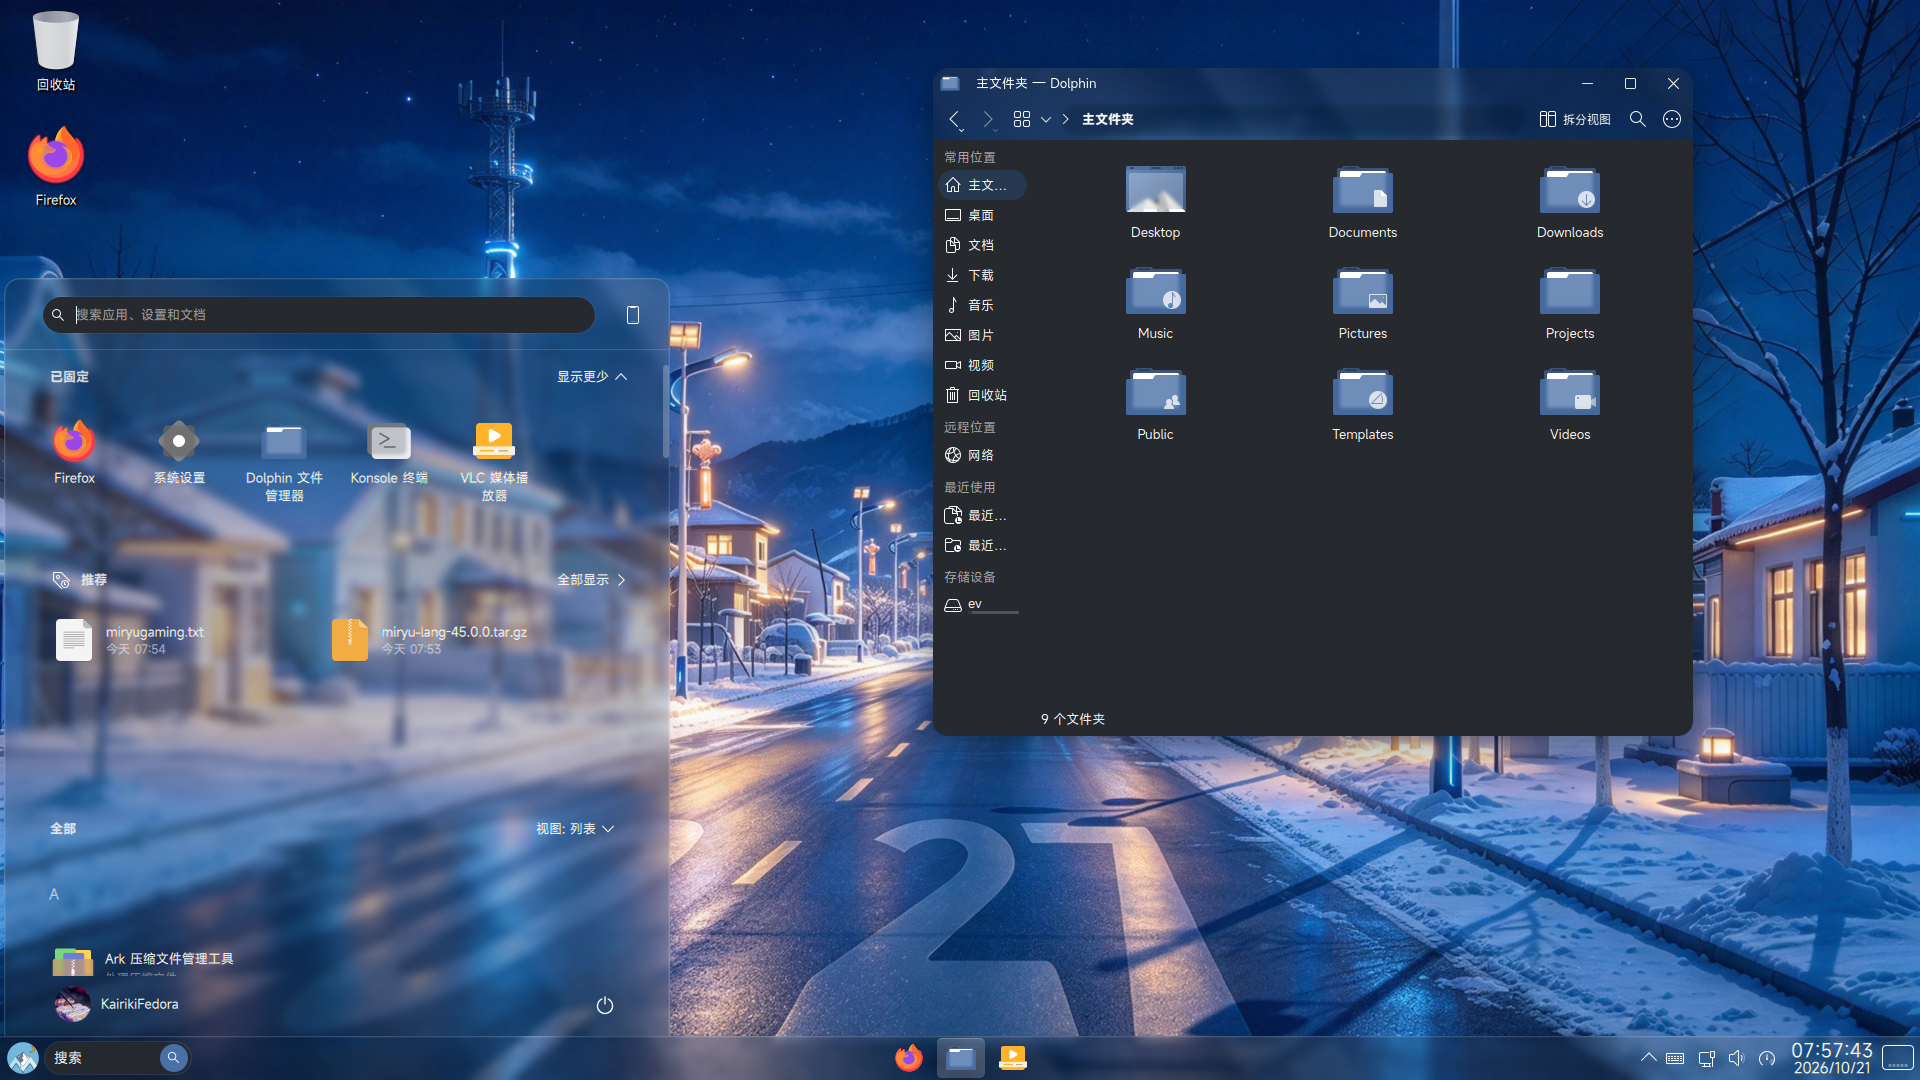
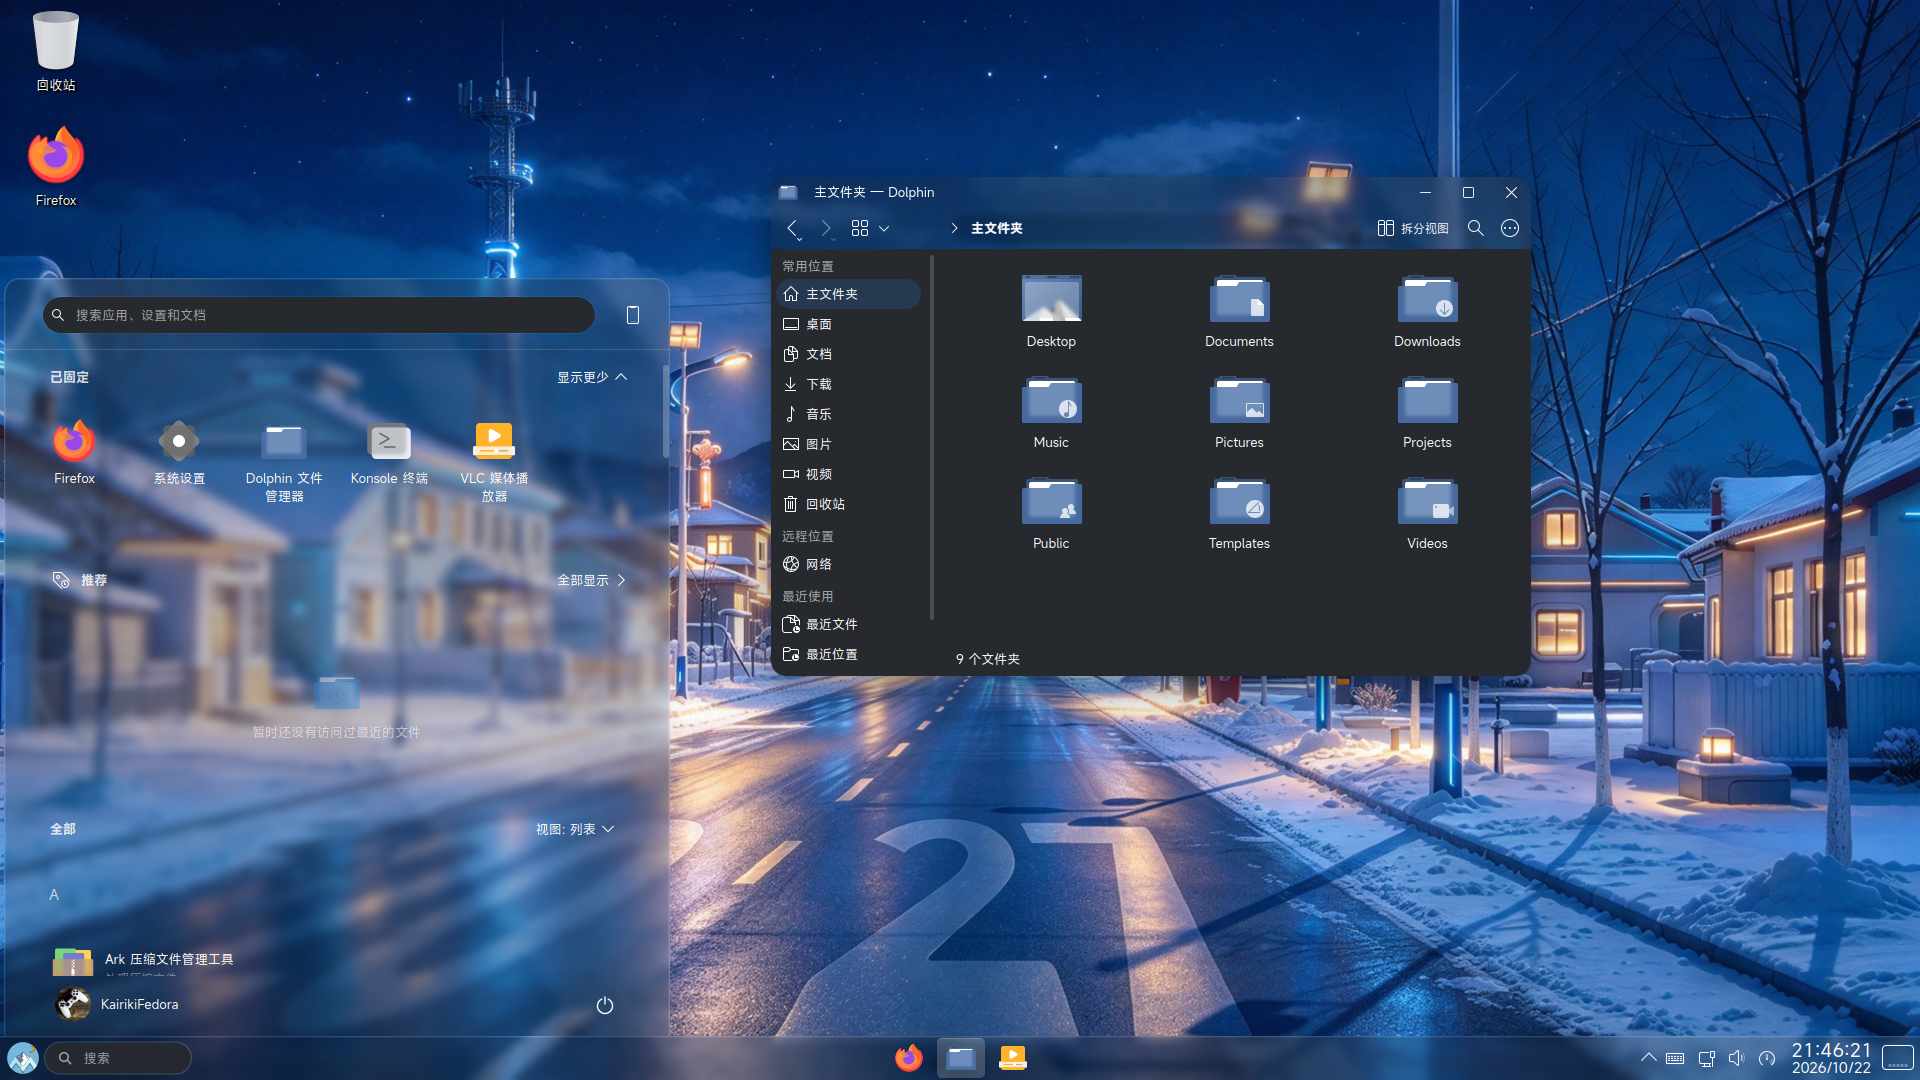
Update Search Widget

diff --git a/usr/share/plasma/look-and-feel/evernight-vista-classic-dark/contents/layouts/org.kde.plasma.desktop-layout.js b/usr/share/plasma/look-and-feel/evernight-vista-classic-dark/contents/layouts/org.kde.plasma.desktop-layout.js
@@ -47,7 +47,7 @@ kickoff.writeConfig("favorites", ["preferred://browser", "systemsettings.desktop
 
 
 //panel.addWidget("org.kde.plasma.showActivityManager")
-panel.addWidget("com.mcc45tr.filesearch")
+panel.addWidget("org.miryugaming.search")
 let taskBar = panel.addWidget("org.kde.plasma.icontasks.skyler")
 taskBar.writeConfig("launchers",["preferred://browser","preferred://filemanager","applications:vlc.desktop"])
 taskBar.writeConfig("hoverEffect",false)

diff --git a/usr/share/plasma/look-and-feel/evernight-vista-classic/contents/layouts/org.kde.plasma.desktop-layout.js b/usr/share/plasma/look-and-feel/evernight-vista-classic/contents/layouts/org.kde.plasma.desktop-layout.js
@@ -47,7 +47,7 @@ kickoff.writeConfig("favorites", ["preferred://browser", "systemsettings.desktop
 
 
 //panel.addWidget("org.kde.plasma.showActivityManager")
-panel.addWidget("com.mcc45tr.filesearch")
+panel.addWidget("org.miryugaming.search")
 let taskBar = panel.addWidget("org.kde.plasma.icontasks.skyler")
 taskBar.writeConfig("launchers",["preferred://browser","preferred://filemanager","applications:vlc.desktop"])
 taskBar.writeConfig("hoverEffect",false)

diff --git a/usr/share/plasma/look-and-feel/evernight-vista-dark/contents/layouts/org.kde.plasma.desktop-layout.js b/usr/share/plasma/look-and-feel/evernight-vista-dark/contents/layouts/org.kde.plasma.desktop-layout.js
@@ -48,7 +48,7 @@ kickoff.writeConfig("favorites", ["preferred://browser", "systemsettings.desktop
 
 
 //panel.addWidget("org.kde.plasma.showActivityManager")
-panel.addWidget("com.mcc45tr.filesearch")
+panel.addWidget("org.miryugaming.search")
 let taskBar = panel.addWidget("org.kde.plasma.icontasks.skyler")
 taskBar.writeConfig("launchers",["preferred://browser","preferred://filemanager","applications:vlc.desktop"])
 taskBar.writeConfig("hoverEffect",false)

diff --git a/usr/share/plasma/look-and-feel/evernight-vista/contents/layouts/org.kde.plasma.desktop-layout.js b/usr/share/plasma/look-and-feel/evernight-vista/contents/layouts/org.kde.plasma.desktop-layout.js
@@ -48,7 +48,7 @@ kickoff.writeConfig("favorites", ["preferred://browser", "systemsettings.desktop
 
 
 //panel.addWidget("org.kde.plasma.showActivityManager")
-panel.addWidget("com.mcc45tr.filesearch")
+panel.addWidget("org.miryugaming.search")
 let taskBar = panel.addWidget("org.kde.plasma.icontasks.skyler")
 taskBar.writeConfig("launchers",["preferred://browser","preferred://filemanager","applications:vlc.desktop"])
 taskBar.writeConfig("hoverEffect",false)

diff --git a/usr/share/plasma/look-and-feel/evernight-vista-harmony-dark/contents/layouts/org.kde.plasma.desktop-layout.js b/usr/share/plasma/look-and-feel/evernight-vista-harmony-dark/contents/layouts/org.kde.plasma.desktop-layout.js
@@ -45,7 +45,7 @@ if (geo.width > maximumWidth) {
 var kickoff = panel.addWidget("org.miryugaming.start")
 kickoff.writeConfig("favorites", ["preferred://browser", "systemsettings.desktop", "org.kde.dolphin.desktop", "org.kde.konsole.desktop", "vlc.desktop"])
 
-panel.addWidget("com.mcc45tr.filesearch")
+panel.addWidget("org.miryugaming.search")
 panel.addWidget("org.kde.plasma.panelspacer")
 
 //panel.addWidget("org.kde.plasma.showActivityManager")

diff --git a/usr/share/plasma/look-and-feel/evernight-vista-harmony/contents/layouts/org.kde.plasma.desktop-layout.js b/usr/share/plasma/look-and-feel/evernight-vista-harmony/contents/layouts/org.kde.plasma.desktop-layout.js
@@ -45,7 +45,7 @@ if (geo.width > maximumWidth) {
 var kickoff = panel.addWidget("org.miryugaming.start")
 kickoff.writeConfig("favorites", ["preferred://browser", "systemsettings.desktop", "org.kde.dolphin.desktop", "org.kde.konsole.desktop", "vlc.desktop"])
 
-panel.addWidget("com.mcc45tr.filesearch")
+panel.addWidget("org.miryugaming.search")
 panel.addWidget("org.kde.plasma.panelspacer")
 
 //panel.addWidget("org.kde.plasma.showActivityManager")

diff --git a/usr/share/plasma/layout-templates/evernight-vista-panel/contents/layout.js b/usr/share/plasma/layout-templates/evernight-vista-panel/contents/layout.js
@@ -46,7 +46,7 @@ if (panel.formFactor === "horizontal") {
 
 panel.addWidget("org.kde.plasma.panelspacer")
 var kickoff = panel.addWidget("org.miryugaming.start")
-panel.addWidget("com.mcc45tr.filesearch")
+panel.addWidget("org.miryugaming.search")
 
 //panel.addWidget("org.kde.plasma.showActivityManager")
 let taskBar = panel.addWidget("org.kde.plasma.icontasks.skyler")
